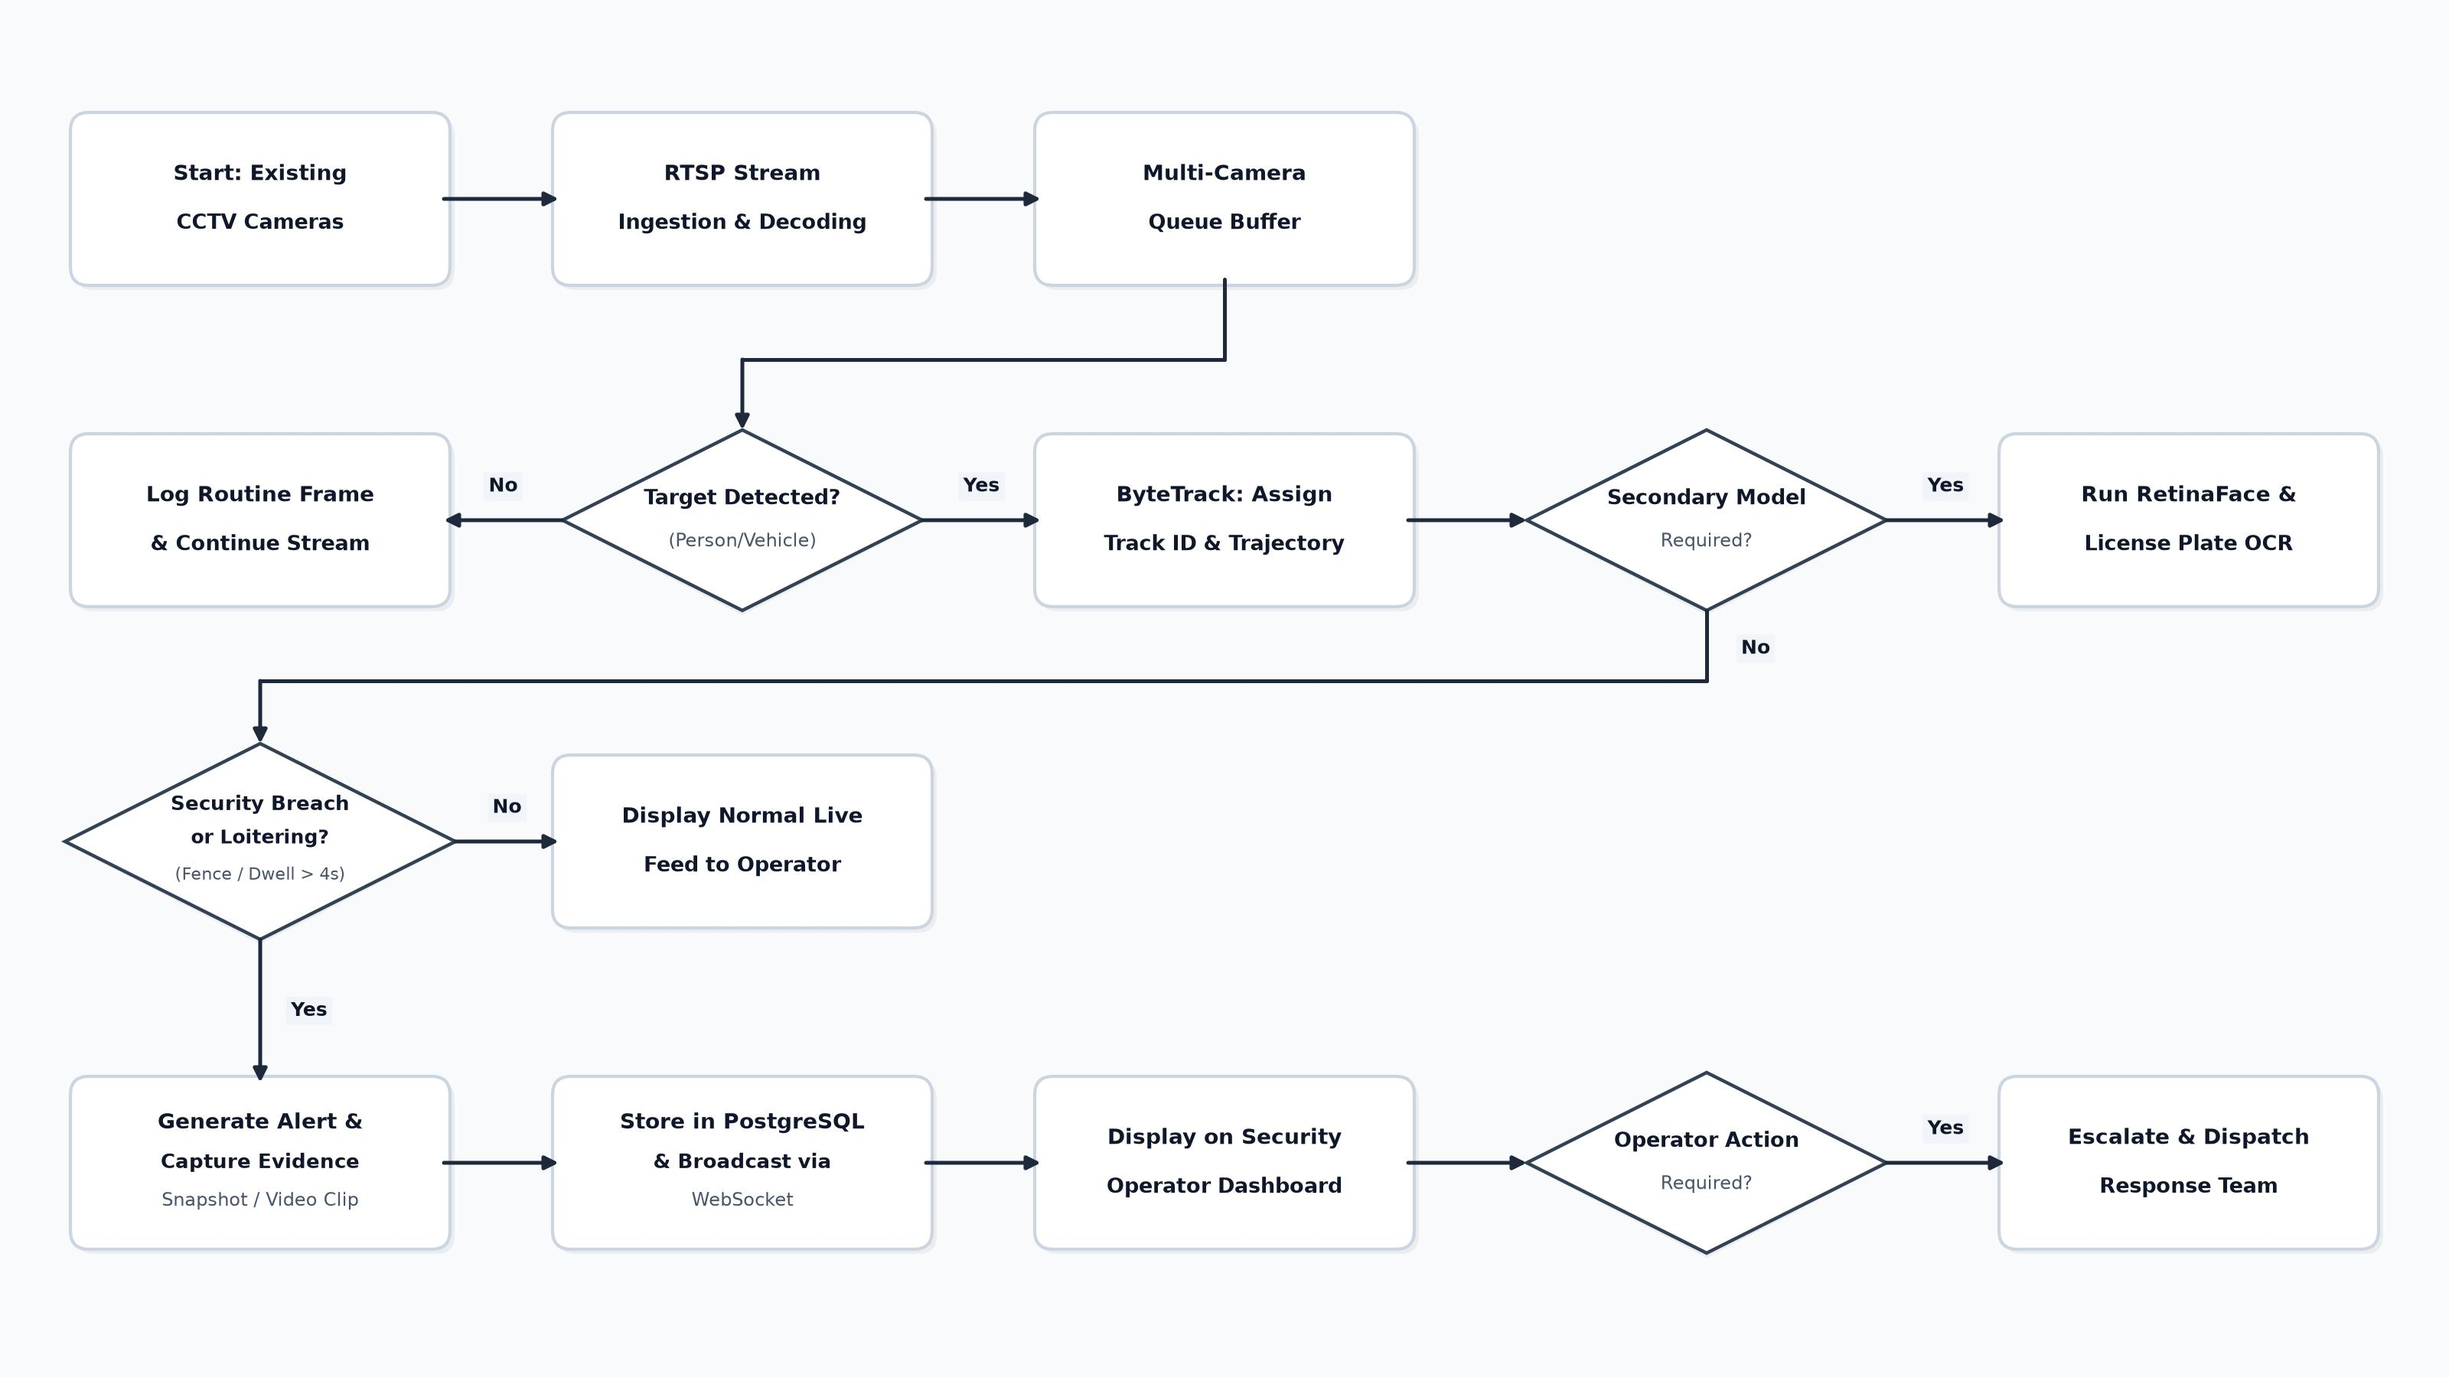
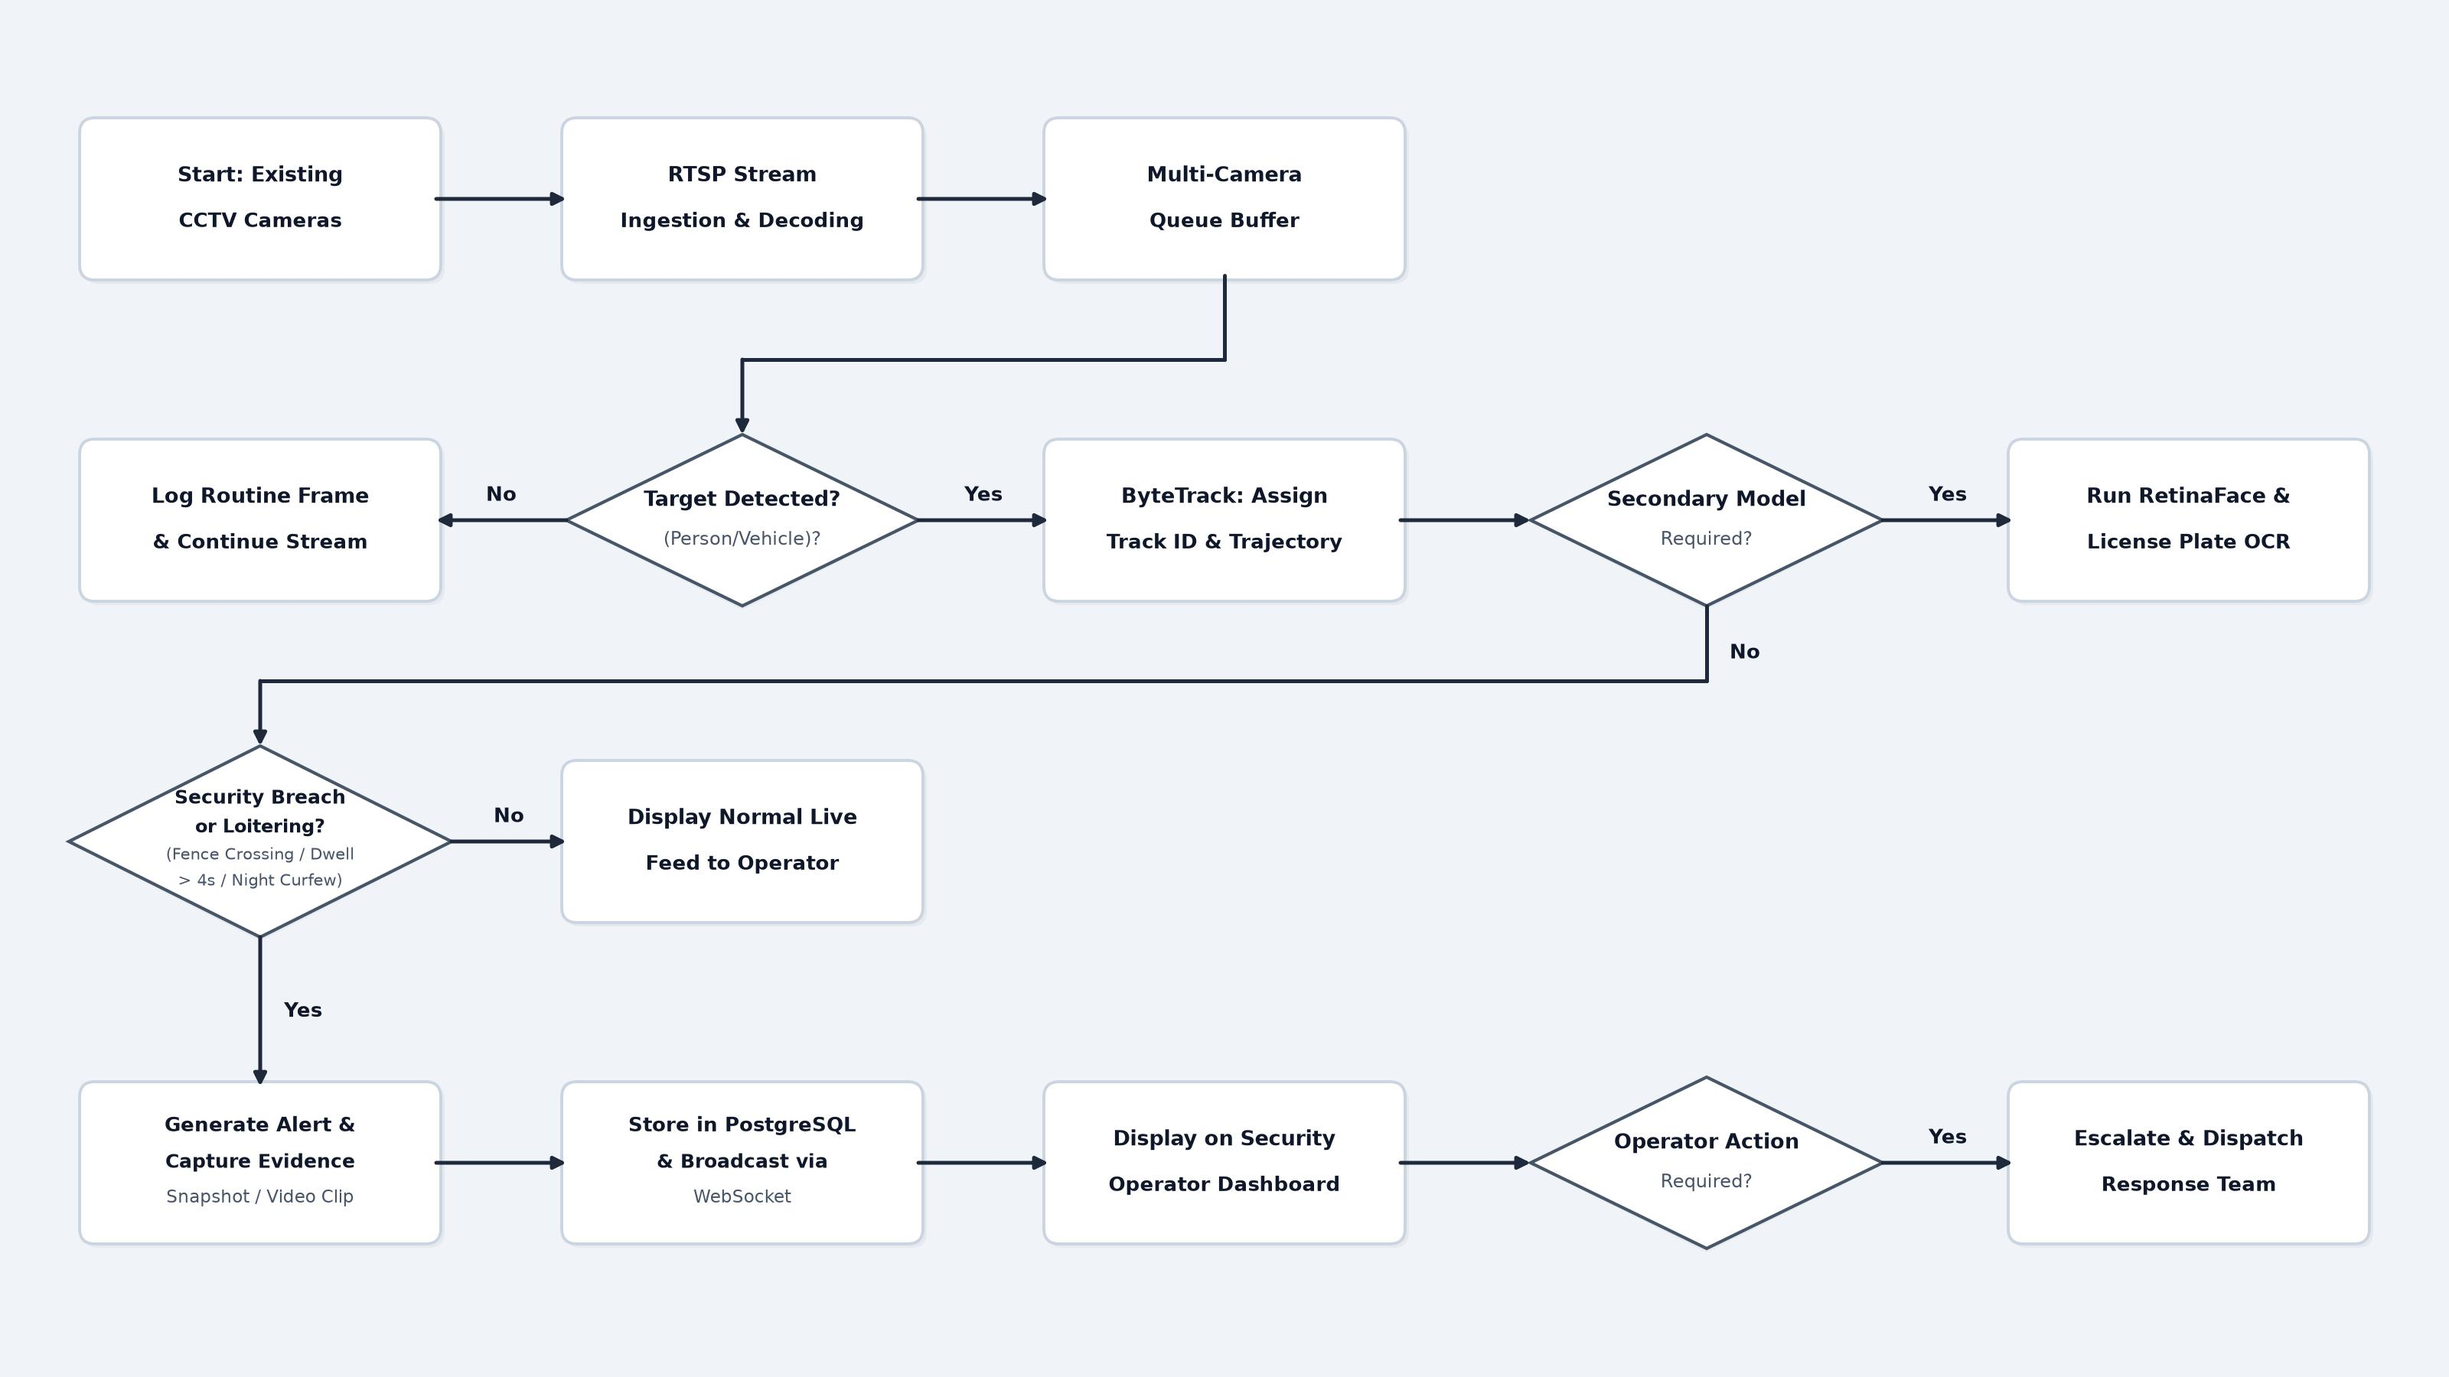
fix(flowchart): exact alignment matching presentation screenshot with clean labels

diff --git a/render_flowchart.py b/render_flowchart.py
@@ -2,70 +2,76 @@ import matplotlib.pyplot as plt
 import matplotlib.patches as patches
 from matplotlib.patches import FancyBboxPatch, Polygon
 
-# Standard 16:9 presentation slide without headers or footers
+# Standard 16:9 widescreen presentation slide (1920x1080 at 150 dpi)
 fig = plt.figure(figsize=(16, 9), dpi=150)
 ax = fig.add_axes([0, 0, 1, 1])
 ax.set_xlim(0, 16)
 ax.set_ylim(0, 9)
 ax.axis('off')
 
-# Clean minimal presentation background
-fig.patch.set_facecolor('#F8FAFC')
-ax.set_facecolor('#F8FAFC')
+# Clean minimal presentation background matching reference
+bg_color = '#F0F4F8'
+fig.patch.set_facecolor(bg_color)
+ax.set_facecolor(bg_color)
 
 # Helper: Draw Card
-def draw_card(cx, cy, w=2.4, h=1.05, title="", line2="", line3="", border="#CBD5E1", fill="#FFFFFF", tcol="#0F172A"):
+def draw_card(cx, cy, w=2.30, h=1.00, title="", line2="", line3="", border="#CBD5E1", fill="#FFFFFF", tcol="#0F172A"):
     x = cx - w / 2
     y = cy - h / 2
     
     # Soft drop shadow
-    shadow = FancyBboxPatch((x + 0.03, y - 0.03), w, h, boxstyle="round,pad=0.04,rounding_size=0.12",
-                            facecolor="#000000", edgecolor="none", alpha=0.05)
+    shadow = FancyBboxPatch((x + 0.025, y - 0.025), w, h, boxstyle="round,pad=0.03,rounding_size=0.10",
+                            facecolor="#000000", edgecolor="none", alpha=0.04)
     ax.add_patch(shadow)
     
-    # Main card
-    card = FancyBboxPatch((x, y), w, h, boxstyle="round,pad=0.04,rounding_size=0.12",
-                          facecolor=fill, edgecolor=border, linewidth=1.5)
+    # Main white card
+    card = FancyBboxPatch((x, y), w, h, boxstyle="round,pad=0.03,rounding_size=0.10",
+                          facecolor=fill, edgecolor=border, linewidth=1.4)
     ax.add_patch(card)
-    
-    lines = [l for l in [title, line2, line3] if l]
-    if len(lines) == 1:
-        ax.text(cx, cy, lines[0], color=tcol, fontsize=10.5, fontweight='bold', ha='center', va='center', fontfamily='sans-serif')
-    elif len(lines) == 2:
-        ax.text(cx, cy + 0.16, lines[0], color=tcol, fontsize=10.2, fontweight='bold', ha='center', va='center', fontfamily='sans-serif')
-        ax.text(cx, cy - 0.16, lines[1], color=tcol, fontsize=9.8, fontweight='bold', ha='center', va='center', fontfamily='sans-serif')
-    elif len(lines) == 3:
-        ax.text(cx, cy + 0.26, lines[0], color=tcol, fontsize=10.0, fontweight='bold', ha='center', va='center', fontfamily='sans-serif')
-        ax.text(cx, cy, lines[1], color=tcol, fontsize=9.5, fontweight='bold', ha='center', va='center', fontfamily='sans-serif')
-        ax.text(cx, cy - 0.25, lines[2], color="#475569", fontsize=8.6, ha='center', va='center', fontfamily='sans-serif')
-
-# Helper: Draw Diamond
-def draw_diamond(cx, cy, dw=2.35, dh=1.18, title="", line2="", line3="", border="#334155", fill="#FFFFFF", tcol="#0F172A"):
-    # Soft shadow
-    shadow = Polygon([[cx, cy + dh/2 - 0.03], [cx + dw/2 + 0.03, cy], [cx, cy - dh/2 - 0.03], [cx - dw/2 - 0.03, cy]],
-                     closed=True, facecolor="#000000", edgecolor="none", alpha=0.05)
-    ax.add_patch(shadow)
-    
-    # Diamond
-    diamond = Polygon([[cx, cy + dh/2], [cx + dw/2, cy], [cx, cy - dh/2], [cx - dw/2, cy]],
-                      closed=True, facecolor=fill, edgecolor=border, linewidth=1.6)
-    ax.add_patch(diamond)
     
     lines = [l for l in [title, line2, line3] if l]
     if len(lines) == 1:
         ax.text(cx, cy, lines[0], color=tcol, fontsize=10.0, fontweight='bold', ha='center', va='center', fontfamily='sans-serif')
     elif len(lines) == 2:
-        ax.text(cx, cy + 0.14, lines[0], color=tcol, fontsize=9.8, fontweight='bold', ha='center', va='center', fontfamily='sans-serif')
-        ax.text(cx, cy - 0.14, lines[1], color="#475569", fontsize=8.8, ha='center', va='center', fontfamily='sans-serif')
+        ax.text(cx, cy + 0.15, lines[0], color=tcol, fontsize=9.8, fontweight='bold', ha='center', va='center', fontfamily='sans-serif')
+        ax.text(cx, cy - 0.15, lines[1], color=tcol, fontsize=9.4, fontweight='bold', ha='center', va='center', fontfamily='sans-serif')
     elif len(lines) == 3:
-        ax.text(cx, cy + 0.24, lines[0], color=tcol, fontsize=9.4, fontweight='bold', ha='center', va='center', fontfamily='sans-serif')
-        ax.text(cx, cy + 0.02, lines[1], color=tcol, fontsize=9.0, fontweight='bold', ha='center', va='center', fontfamily='sans-serif')
-        ax.text(cx, cy - 0.22, lines[2], color="#475569", fontsize=8.0, ha='center', va='center', fontfamily='sans-serif')
+        ax.text(cx, cy + 0.24, lines[0], color=tcol, fontsize=9.5, fontweight='bold', ha='center', va='center', fontfamily='sans-serif')
+        ax.text(cx, cy, lines[1], color=tcol, fontsize=9.0, fontweight='bold', ha='center', va='center', fontfamily='sans-serif')
+        ax.text(cx, cy - 0.23, lines[2], color="#475569", fontsize=8.2, ha='center', va='center', fontfamily='sans-serif')
+
+# Helper: Draw Diamond
+def draw_diamond(cx, cy, dw=2.30, dh=1.12, title="", line2="", line3="", line4="", border="#475569", fill="#FFFFFF", tcol="#0F172A"):
+    # Soft shadow
+    shadow = Polygon([[cx, cy + dh/2 - 0.025], [cx + dw/2 + 0.025, cy], [cx, cy - dh/2 - 0.025], [cx - dw/2 - 0.025, cy]],
+                     closed=True, facecolor="#000000", edgecolor="none", alpha=0.04)
+    ax.add_patch(shadow)
+    
+    # Diamond
+    diamond = Polygon([[cx, cy + dh/2], [cx + dw/2, cy], [cx, cy - dh/2], [cx - dw/2, cy]],
+                      closed=True, facecolor=fill, edgecolor=border, linewidth=1.5)
+    ax.add_patch(diamond)
+    
+    lines = [l for l in [title, line2, line3, line4] if l]
+    if len(lines) == 1:
+        ax.text(cx, cy, lines[0], color=tcol, fontsize=9.8, fontweight='bold', ha='center', va='center', fontfamily='sans-serif')
+    elif len(lines) == 2:
+        ax.text(cx, cy + 0.13, lines[0], color=tcol, fontsize=9.6, fontweight='bold', ha='center', va='center', fontfamily='sans-serif')
+        ax.text(cx, cy - 0.13, lines[1], color="#475569", fontsize=8.5, ha='center', va='center', fontfamily='sans-serif')
+    elif len(lines) == 3:
+        ax.text(cx, cy + 0.20, lines[0], color=tcol, fontsize=9.2, fontweight='bold', ha='center', va='center', fontfamily='sans-serif')
+        ax.text(cx, cy, lines[1], color=tcol, fontsize=8.8, fontweight='bold', ha='center', va='center', fontfamily='sans-serif')
+        ax.text(cx, cy - 0.19, lines[2], color="#475569", fontsize=7.8, ha='center', va='center', fontfamily='sans-serif')
+    elif len(lines) == 4:
+        ax.text(cx, cy + 0.28, lines[0], color=tcol, fontsize=9.0, fontweight='bold', ha='center', va='center', fontfamily='sans-serif')
+        ax.text(cx, cy + 0.09, lines[1], color=tcol, fontsize=8.6, fontweight='bold', ha='center', va='center', fontfamily='sans-serif')
+        ax.text(cx, cy - 0.09, lines[2], color="#475569", fontsize=7.6, ha='center', va='center', fontfamily='sans-serif')
+        ax.text(cx, cy - 0.26, lines[3], color="#475569", fontsize=7.4, ha='center', va='center', fontfamily='sans-serif')
 
 # Helper: Draw Straight Arrow
 def draw_arrow(x1, y1, x2, y2, color="#1E293B", lw=1.8):
     ax.annotate('', xy=(x2, y2), xytext=(x1, y1),
-                arrowprops=dict(arrowstyle="-|>", color=color, lw=lw, mutation_scale=13, shrinkA=0, shrinkB=0))
+                arrowprops=dict(arrowstyle="-|>", color=color, lw=lw, mutation_scale=12, shrinkA=0, shrinkB=0))
 
 # Helper: Draw Orthogonal Corner Arrow
 def draw_corner_arrow(points, color="#1E293B", lw=1.8):
@@ -74,12 +80,11 @@ def draw_corner_arrow(points, color="#1E293B", lw=1.8):
         ax.plot([p1[0], p2[0]], [p1[1], p2[1]], color=color, lw=lw, solid_capstyle='round')
     p1, p2 = points[-2], points[-1]
     ax.annotate('', xy=(p2[0], p2[1]), xytext=(p1[0], p1[1]),
-                arrowprops=dict(arrowstyle="-|>", color=color, lw=lw, mutation_scale=13, shrinkA=0, shrinkB=0))
+                arrowprops=dict(arrowstyle="-|>", color=color, lw=lw, mutation_scale=12, shrinkA=0, shrinkB=0))
 
-# Helper: Branch Label
-def draw_label(x, y, text, color="#0F172A", bg="#F1F5F9"):
-    bbox_props = dict(boxstyle="round,pad=0.25,rounding_size=0.1", fc=bg, ec="none")
-    ax.text(x, y, text, color=color, fontsize=9.0, fontweight='bold', ha='center', va='center', bbox=bbox_props)
+# Helper: Plain Text Branch Label (matching reference without badge container)
+def draw_label(x, y, text, color="#0F172A"):
+    ax.text(x, y, text, color=color, fontsize=9.2, fontweight='bold', ha='center', va='center', fontfamily='sans-serif')
 
 
 # =========================================================================
@@ -96,8 +101,10 @@ y_row2 = 5.60
 y_row3 = 3.50
 y_row4 = 1.40
 
-card_w = 2.40
-card_h = 1.05
+card_w = 2.30
+card_h = 1.00
+dw = 2.30
+dh = 1.12
 
 # ==========================================
 # ROW 1
@@ -111,11 +118,12 @@ draw_arrow(x_col2 + card_w/2, y_row1, x_col3 - card_w/2, y_row1)
 draw_card(x_col3, y_row1, card_w, card_h, "Multi-Camera", "Queue Buffer")
 
 # Arrow from Row 1 Queue Buffer down and left to Row 2 Target Detected
+y_mid12 = (y_row1 + y_row2) / 2
 draw_corner_arrow([
     (x_col3, y_row1 - card_h/2),
-    (x_col3, (y_row1 + y_row2)/2),
-    (x_col2, (y_row1 + y_row2)/2),
-    (x_col2, y_row2 + 1.18/2)
+    (x_col3, y_mid12),
+    (x_col2, y_mid12),
+    (x_col2, y_row2 + dh/2)
 ])
 
 
@@ -123,51 +131,54 @@ draw_corner_arrow([
 # ROW 2
 # ==========================================
 # Diamond: Target Detected?
-draw_diamond(x_col2, y_row2, 2.35, 1.18, "Target Detected?", "(Person/Vehicle)")
+draw_diamond(x_col2, y_row2, dw, dh, "Target Detected?", "(Person/Vehicle)?")
 
 # Branch No -> Log Routine Frame (Col 1)
-draw_arrow(x_col2 - 2.35/2, y_row2, x_col1 + card_w/2, y_row2)
-draw_label((x_col2 - 2.35/2 + x_col1 + card_w/2)/2, y_row2 + 0.22, "No")
+draw_arrow(x_col2 - dw/2, y_row2, x_col1 + card_w/2, y_row2)
+draw_label((x_col2 - dw/2 + x_col1 + card_w/2) / 2, y_row2 + 0.16, "No")
 draw_card(x_col1, y_row2, card_w, card_h, "Log Routine Frame", "& Continue Stream")
 
 # Branch Yes -> ByteTrack (Col 3)
-draw_arrow(x_col2 + 2.35/2, y_row2, x_col3 - card_w/2, y_row2)
-draw_label((x_col2 + 2.35/2 + x_col3 - card_w/2)/2, y_row2 + 0.22, "Yes")
+draw_arrow(x_col2 + dw/2, y_row2, x_col3 - card_w/2, y_row2)
+draw_label((x_col2 + dw/2 + x_col3 - card_w/2) / 2, y_row2 + 0.16, "Yes")
 draw_card(x_col3, y_row2, card_w, card_h, "ByteTrack: Assign", "Track ID & Trajectory")
 
 # Arrow to Secondary Model (Col 4)
-draw_arrow(x_col3 + card_w/2, y_row2, x_col4 - 2.35/2, y_row2)
-draw_diamond(x_col4, y_row2, 2.35, 1.18, "Secondary Model", "Required?")
+draw_arrow(x_col3 + card_w/2, y_row2, x_col4 - dw/2, y_row2)
+draw_diamond(x_col4, y_row2, dw, dh, "Secondary Model", "Required?")
 
 # Branch Yes -> Run RetinaFace & License Plate OCR (Col 5)
-draw_arrow(x_col4 + 2.35/2, y_row2, x_col5 - card_w/2, y_row2)
-draw_label((x_col4 + 2.35/2 + x_col5 - card_w/2)/2, y_row2 + 0.22, "Yes")
+draw_arrow(x_col4 + dw/2, y_row2, x_col5 - card_w/2, y_row2)
+draw_label((x_col4 + dw/2 + x_col5 - card_w/2) / 2, y_row2 + 0.16, "Yes")
 draw_card(x_col5, y_row2, card_w, card_h, "Run RetinaFace &", "License Plate OCR")
 
 # Branch No -> Goes down and left to Row 3 Security Breach Diamond
+y_mid23 = (y_row2 + y_row3) / 2
+dh_r3 = 1.25
+dw_r3 = 2.50
 draw_corner_arrow([
-    (x_col4, y_row2 - 1.18/2),
-    (x_col4, (y_row2 + y_row3)/2),
-    (x_col1, (y_row2 + y_row3)/2),
-    (x_col1, y_row3 + 1.28/2)
+    (x_col4, y_row2 - dh/2),
+    (x_col4, y_mid23),
+    (x_col1, y_mid23),
+    (x_col1, y_row3 + dh_r3/2)
 ])
-draw_label(x_col4 + 0.32, y_row2 - 1.18/2 - 0.25, "No")
+draw_label(x_col4 + 0.25, y_mid23 + 0.18, "No")
 
 
 # ==========================================
 # ROW 3
 # ==========================================
 # Diamond: Security Breach or Loitering?
-draw_diamond(x_col1, y_row3, 2.55, 1.28, "Security Breach", "or Loitering?", "(Fence / Dwell > 4s)")
+draw_diamond(x_col1, y_row3, dw_r3, dh_r3, "Security Breach", "or Loitering?", "(Fence Crossing / Dwell", "> 4s / Night Curfew)")
 
 # Branch No -> Display Normal Live Feed (Col 2)
-draw_arrow(x_col1 + 2.55/2, y_row3, x_col2 - card_w/2, y_row3)
-draw_label((x_col1 + 2.55/2 + x_col2 - card_w/2)/2, y_row3 + 0.22, "No")
+draw_arrow(x_col1 + dw_r3/2, y_row3, x_col2 - card_w/2, y_row3)
+draw_label((x_col1 + dw_r3/2 + x_col2 - card_w/2) / 2, y_row3 + 0.16, "No")
 draw_card(x_col2, y_row3, card_w, card_h, "Display Normal Live", "Feed to Operator")
 
-# Branch Yes -> Drops straight down to Row 4
-draw_arrow(x_col1, y_row3 - 1.28/2, x_col1, y_row4 + card_h/2)
-draw_label(x_col1 + 0.32, (y_row3 - 1.28/2 + y_row4 + card_h/2)/2, "Yes")
+# Branch Yes -> Drops straight down to Row 4 (Col 1)
+draw_arrow(x_col1, y_row3 - dh_r3/2, x_col1, y_row4 + card_h/2)
+draw_label(x_col1 + 0.28, (y_row3 - dh_r3/2 + y_row4 + card_h/2) / 2, "Yes")
 
 
 # ==========================================
@@ -180,16 +191,16 @@ draw_card(x_col2, y_row4, card_w, card_h, "Store in PostgreSQL", "& Broadcast vi
 draw_arrow(x_col2 + card_w/2, y_row4, x_col3 - card_w/2, y_row4)
 
 draw_card(x_col3, y_row4, card_w, card_h, "Display on Security", "Operator Dashboard")
-draw_arrow(x_col3 + card_w/2, y_row4, x_col4 - 2.35/2, y_row4)
+draw_arrow(x_col3 + card_w/2, y_row4, x_col4 - dw/2, y_row4)
 
-draw_diamond(x_col4, y_row4, 2.35, 1.18, "Operator Action", "Required?")
+draw_diamond(x_col4, y_row4, dw, dh, "Operator Action", "Required?")
 
-draw_arrow(x_col4 + 2.35/2, y_row4, x_col5 - card_w/2, y_row4)
-draw_label((x_col4 + 2.35/2 + x_col5 - card_w/2)/2, y_row4 + 0.22, "Yes")
+draw_arrow(x_col4 + dw/2, y_row4, x_col5 - card_w/2, y_row4)
+draw_label((x_col4 + dw/2 + x_col5 - card_w/2) / 2, y_row4 + 0.16, "Yes")
 
 draw_card(x_col5, y_row4, card_w, card_h, "Escalate & Dispatch", "Response Team")
 
 # Save high-resolution outputs
 plt.savefig("flowchart_decision_tree_ppt.jpg", dpi=200, facecolor=fig.get_facecolor(), edgecolor='none')
 plt.savefig("flowchart_decision_tree_ppt.png", dpi=200, facecolor=fig.get_facecolor(), edgecolor='none')
-print("Complete pure flowchart rendered with exact alignment!")
+print("Rendered exact matching flowchart with strict alignment!")
